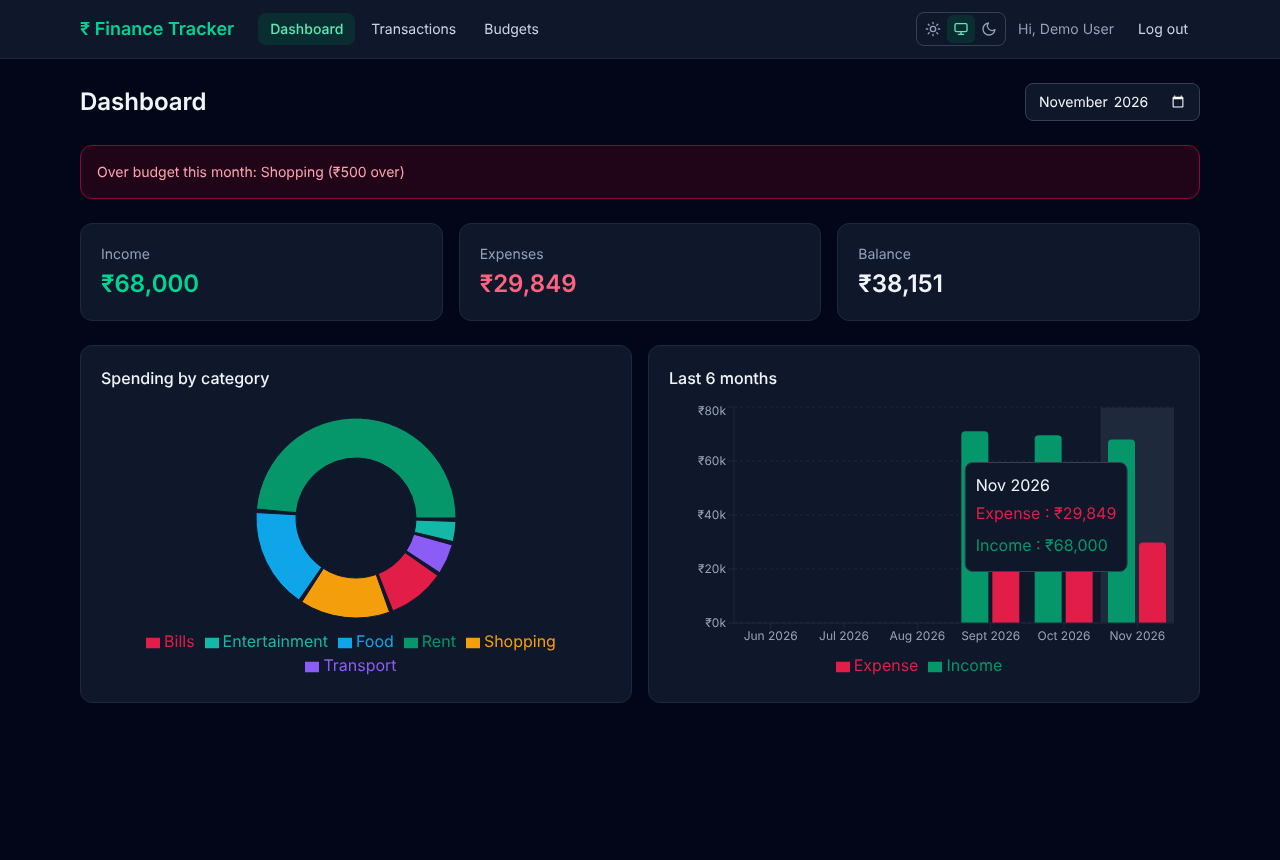
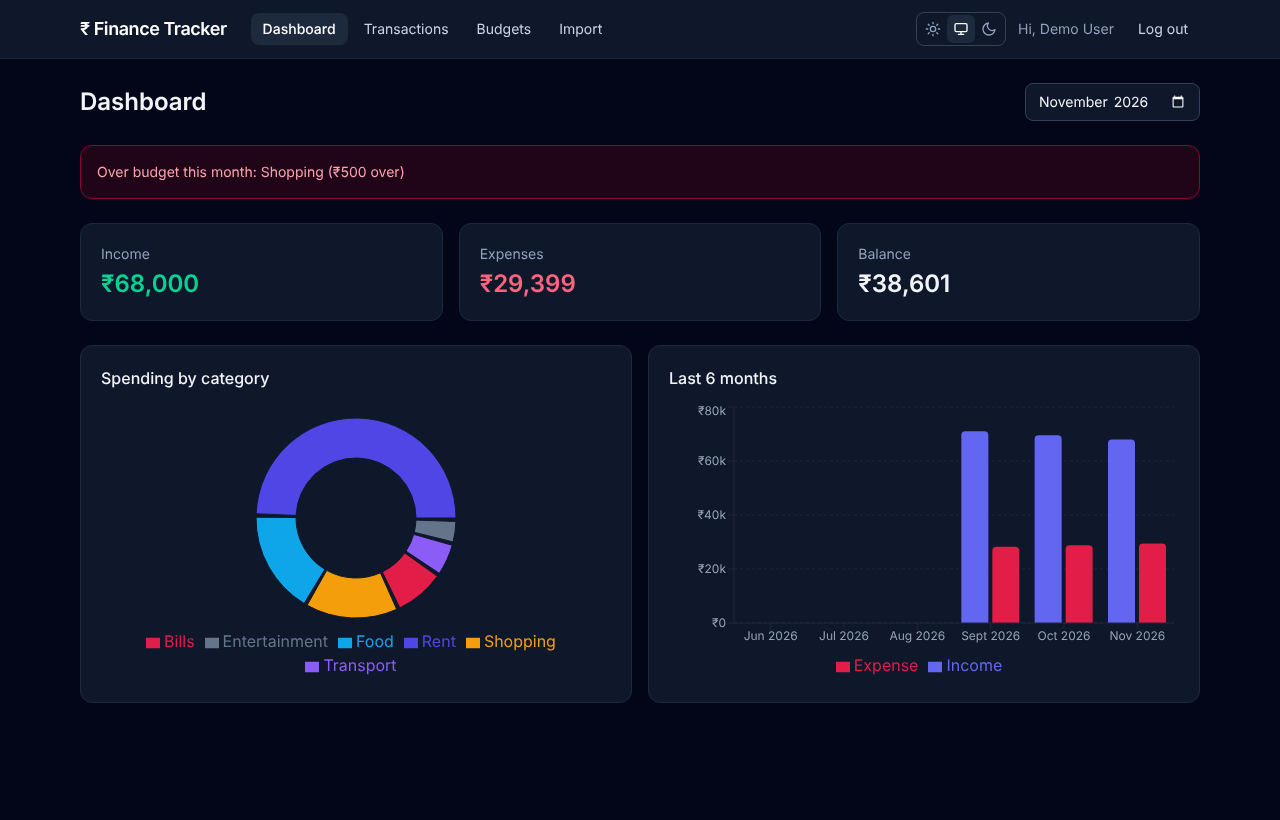
style: clean neutral colour scheme with an indigo accent

diff --git a/client/src/pages/Import.tsx b/client/src/pages/Import.tsx
@@ -148,7 +148,7 @@ export default function Import() {
       </div>
 
       {done !== null && (
-        <div className="rounded-xl border border-emerald-200 bg-emerald-50 p-4 text-sm text-emerald-800 dark:border-emerald-900 dark:bg-emerald-950/40 dark:text-emerald-300">
+        <div className="rounded-xl border border-indigo-200 bg-indigo-50 p-4 text-sm text-indigo-900 dark:border-indigo-900 dark:bg-indigo-950/40 dark:text-indigo-200">
           Imported {done} transaction{done === 1 ? "" : "s"}.{" "}
           <Link to="/transactions" className="font-medium underline">See them in Transactions</Link> or{" "}
           <Link to="/" className="font-medium underline">view the dashboard</Link>.
@@ -160,11 +160,11 @@ export default function Import() {
         onDragLeave={() => setDragging(false)}
         onDrop={onDrop}
         className={`card flex cursor-pointer flex-col items-center gap-2 border-2 border-dashed py-10 text-center transition-colors ${
-          dragging ? "border-emerald-500 bg-emerald-50 dark:bg-emerald-950/30" : ""
+          dragging ? "border-indigo-500 bg-indigo-50 dark:bg-indigo-950/30" : ""
         }`}
       >
         <input type="file" accept=".csv,.xlsx,.xls,.pdf,text/csv" className="hidden" onChange={onPick} />
-        <svg viewBox="0 0 24 24" className="h-8 w-8 text-emerald-600 dark:text-emerald-400" fill="none" stroke="currentColor" strokeWidth={2} strokeLinecap="round" strokeLinejoin="round">
+        <svg viewBox="0 0 24 24" className="h-8 w-8 text-slate-400 dark:text-slate-500" fill="none" stroke="currentColor" strokeWidth={2} strokeLinecap="round" strokeLinejoin="round">
           <path d="M12 16V4M7 9l5-5 5 5M4 20h16" />
         </svg>
         <span className="font-medium">{fileName && grid ? fileName : "Drop your statement here, or click to choose"}</span>
@@ -172,7 +172,7 @@ export default function Import() {
       </label>
 
       <div className="flex flex-wrap gap-x-6 gap-y-2 text-sm">
-        <button type="button" className="font-medium text-emerald-700 hover:underline dark:text-emerald-400" onClick={trySample}>
+        <button type="button" className="font-medium text-indigo-600 hover:underline dark:text-indigo-400" onClick={trySample}>
           Try it with a sample statement
         </button>
         <a className="muted hover:underline" href="./sample-statement.csv" download>Download the sample file</a>
@@ -268,7 +268,7 @@ export default function Import() {
                   {rows.map((r) => (
                     <tr key={r.key} className={`border-t border-slate-100 dark:border-slate-800 ${r.selected ? "" : "opacity-50"}`}>
                       <td className="px-4 py-2">
-                        <input type="checkbox" aria-label="Include this row" checked={r.selected} onChange={(e) => update(r.key, { selected: e.target.checked })} className="h-4 w-4 accent-emerald-600" />
+                        <input type="checkbox" aria-label="Include this row" checked={r.selected} onChange={(e) => update(r.key, { selected: e.target.checked })} className="h-4 w-4 accent-indigo-600" />
                       </td>
                       <td className="whitespace-nowrap px-2 py-2">
                         {new Date(`${r.date}T00:00:00Z`).toLocaleDateString("en-IN", { day: "numeric", month: "short", year: "numeric", timeZone: "UTC" })}

diff --git a/client/src/components/Layout.tsx b/client/src/components/Layout.tsx
@@ -16,7 +16,7 @@ export default function Layout() {
       <header className="border-b border-slate-200 bg-white dark:border-slate-800 dark:bg-slate-900">
         <div className="mx-auto flex max-w-6xl items-center justify-between gap-4 px-4 py-3">
           <div className="flex items-center gap-6">
-            <span className="text-lg font-semibold text-emerald-700 dark:text-emerald-400">₹ Finance Tracker</span>
+            <span className="text-lg font-semibold tracking-tight text-slate-900 dark:text-white">₹ Finance Tracker</span>
             <nav className="flex gap-1">
               {links.map((l) => (
                 <NavLink
@@ -24,7 +24,7 @@ export default function Layout() {
                   to={l.to}
                   end
                   className={({ isActive }) =>
-                    `rounded-lg px-3 py-1.5 text-sm ${isActive ? "bg-emerald-50 font-medium text-emerald-700 dark:bg-emerald-900/40 dark:text-emerald-300" : "text-slate-600 hover:bg-slate-100 dark:text-slate-300 dark:hover:bg-slate-800"}`
+                    `rounded-lg px-3 py-1.5 text-sm ${isActive ? "bg-slate-100 font-medium text-slate-900 dark:bg-slate-800 dark:text-white" : "text-slate-600 hover:bg-slate-100 dark:text-slate-300 dark:hover:bg-slate-800"}`
                   }
                 >
                   {l.label}

diff --git a/client/src/pages/Dashboard.tsx b/client/src/pages/Dashboard.tsx
@@ -4,7 +4,8 @@ import { api, Budget, currentMonth, formatINR, MonthlyPoint, monthLabel, Summary
 import MonthPicker from "../components/MonthPicker";
 import { useTheme } from "../context/ThemeContext";
 
-const COLORS = ["#059669", "#0ea5e9", "#f59e0b", "#e11d48", "#8b5cf6", "#14b8a6", "#f97316", "#64748b"];
+// Category colours for the donut chart (no greens, so income green keeps its meaning).
+const COLORS = ["#4f46e5", "#0ea5e9", "#f59e0b", "#e11d48", "#8b5cf6", "#64748b", "#f97316", "#06b6d4"];
 
 function StatCard({ label, value, tone }: { label: string; value: number; tone: string }) {
   return (
@@ -88,7 +89,7 @@ export default function Dashboard() {
               <YAxis fontSize={12} tick={{ fill: axis }} stroke={grid} tickFormatter={(v) => (Number(v) >= 1000 ? `₹${Number(v) / 1000}k` : `₹${v}`)} />
               <Tooltip formatter={(v) => formatINR(Number(v))} contentStyle={tooltipStyle} cursor={{ fill: isDark ? "#1e293b" : "#f1f5f9" }} />
               <Legend />
-              <Bar dataKey="income" name="Income" fill="#059669" radius={[4, 4, 0, 0]} />
+              <Bar dataKey="income" name="Income" fill="#6366f1" radius={[4, 4, 0, 0]} />
               <Bar dataKey="expense" name="Expense" fill="#e11d48" radius={[4, 4, 0, 0]} />
             </BarChart>
           </ResponsiveContainer>

diff --git a/client/src/pages/AuthPage.tsx b/client/src/pages/AuthPage.tsx
@@ -35,7 +35,7 @@ export default function AuthPage({ mode }: { mode: "login" | "register" }) {
       <div className="absolute right-4 top-4"><ThemeToggle /></div>
       <form onSubmit={submit} className="card w-full max-w-sm space-y-4">
         <div>
-          <h1 className="text-2xl font-semibold text-emerald-700 dark:text-emerald-400">₹ Finance Tracker</h1>
+          <h1 className="text-2xl font-semibold tracking-tight text-slate-900 dark:text-white">₹ Finance Tracker</h1>
           <p className="muted text-sm">{isLogin ? "Log in to your account" : "Create your account"}</p>
         </div>
         {!isLogin && (
@@ -50,7 +50,7 @@ export default function AuthPage({ mode }: { mode: "login" | "register" }) {
         <button className="btn w-full" disabled={busy}>{busy ? "Please wait…" : isLogin ? "Log in" : "Sign up"}</button>
         <p className="muted text-center text-sm">
           {isLogin ? "No account? " : "Already have an account? "}
-          <Link className="font-medium text-emerald-700 dark:text-emerald-400" to={isLogin ? "/register" : "/login"}>
+          <Link className="font-medium text-indigo-600 hover:underline dark:text-indigo-400" to={isLogin ? "/register" : "/login"}>
             {isLogin ? "Sign up" : "Log in"}
           </Link>
         </p>

diff --git a/client/src/index.css b/client/src/index.css
@@ -9,11 +9,11 @@ body {
 
 @layer components {
   .input {
-    @apply w-full rounded-lg border border-slate-300 bg-white px-3 py-2 text-sm outline-none focus:border-emerald-500 focus:ring-2 focus:ring-emerald-100
-      dark:border-slate-700 dark:bg-slate-900 dark:text-slate-100 dark:focus:ring-emerald-900 dark:[color-scheme:dark];
+    @apply w-full rounded-lg border border-slate-300 bg-white px-3 py-2 text-sm outline-none focus:border-indigo-500 focus:ring-2 focus:ring-indigo-100
+      dark:border-slate-700 dark:bg-slate-900 dark:text-slate-100 dark:focus:border-indigo-400 dark:focus:ring-indigo-950 dark:[color-scheme:dark];
   }
   .btn {
-    @apply rounded-lg bg-emerald-600 px-4 py-2 text-sm font-medium text-white hover:bg-emerald-700 disabled:opacity-50;
+    @apply rounded-lg bg-slate-900 px-4 py-2 text-sm font-medium text-white hover:bg-slate-700 disabled:opacity-50 dark:bg-white dark:text-slate-900 dark:hover:bg-slate-200;
   }
   .btn-ghost {
     @apply rounded-lg px-3 py-1.5 text-sm text-slate-600 hover:bg-slate-100 dark:text-slate-300 dark:hover:bg-slate-800;

diff --git a/client/src/pages/Budgets.tsx b/client/src/pages/Budgets.tsx
@@ -63,7 +63,7 @@ export default function Budgets() {
       <div className="grid gap-4 sm:grid-cols-2 lg:grid-cols-3">
         {budgets.map((b) => {
           const pct = Math.round((b.spent / b.monthlyLimit) * 100);
-          const tone = pct > 100 ? "bg-rose-500" : pct >= 80 ? "bg-amber-500" : "bg-emerald-500";
+          const tone = pct > 100 ? "bg-rose-500" : pct >= 80 ? "bg-amber-500" : "bg-indigo-500";
           return (
             <div key={b.id} className="card space-y-3">
               <div className="flex items-center justify-between">

diff --git a/client/src/components/ThemeToggle.tsx b/client/src/components/ThemeToggle.tsx
@@ -40,7 +40,7 @@ export default function ThemeToggle() {
           onClick={() => setChoice(o.value)}
           className={`flex h-7 w-7 items-center justify-center rounded-md ${
             choice === o.value
-              ? "bg-emerald-50 text-emerald-700 dark:bg-emerald-900/40 dark:text-emerald-300"
+              ? "bg-slate-100 text-slate-900 dark:bg-slate-800 dark:text-white"
               : "text-slate-400 hover:text-slate-700 dark:hover:text-slate-200"
           }`}
         >

diff --git a/README.md b/README.md
@@ -114,6 +114,10 @@ All routes except `/api/auth/*` need an `Authorization: Bearer <token>` header.
 |---|---|
 | ![Transactions](docs/screenshots/transactions.png) | ![Budgets](docs/screenshots/budgets.png) |
 
+**Statement import**
+
+![Statement import](docs/screenshots/import.png)
+
 ## Roadmap
 
 - [ ] Recurring transactions (rent, subscriptions)
